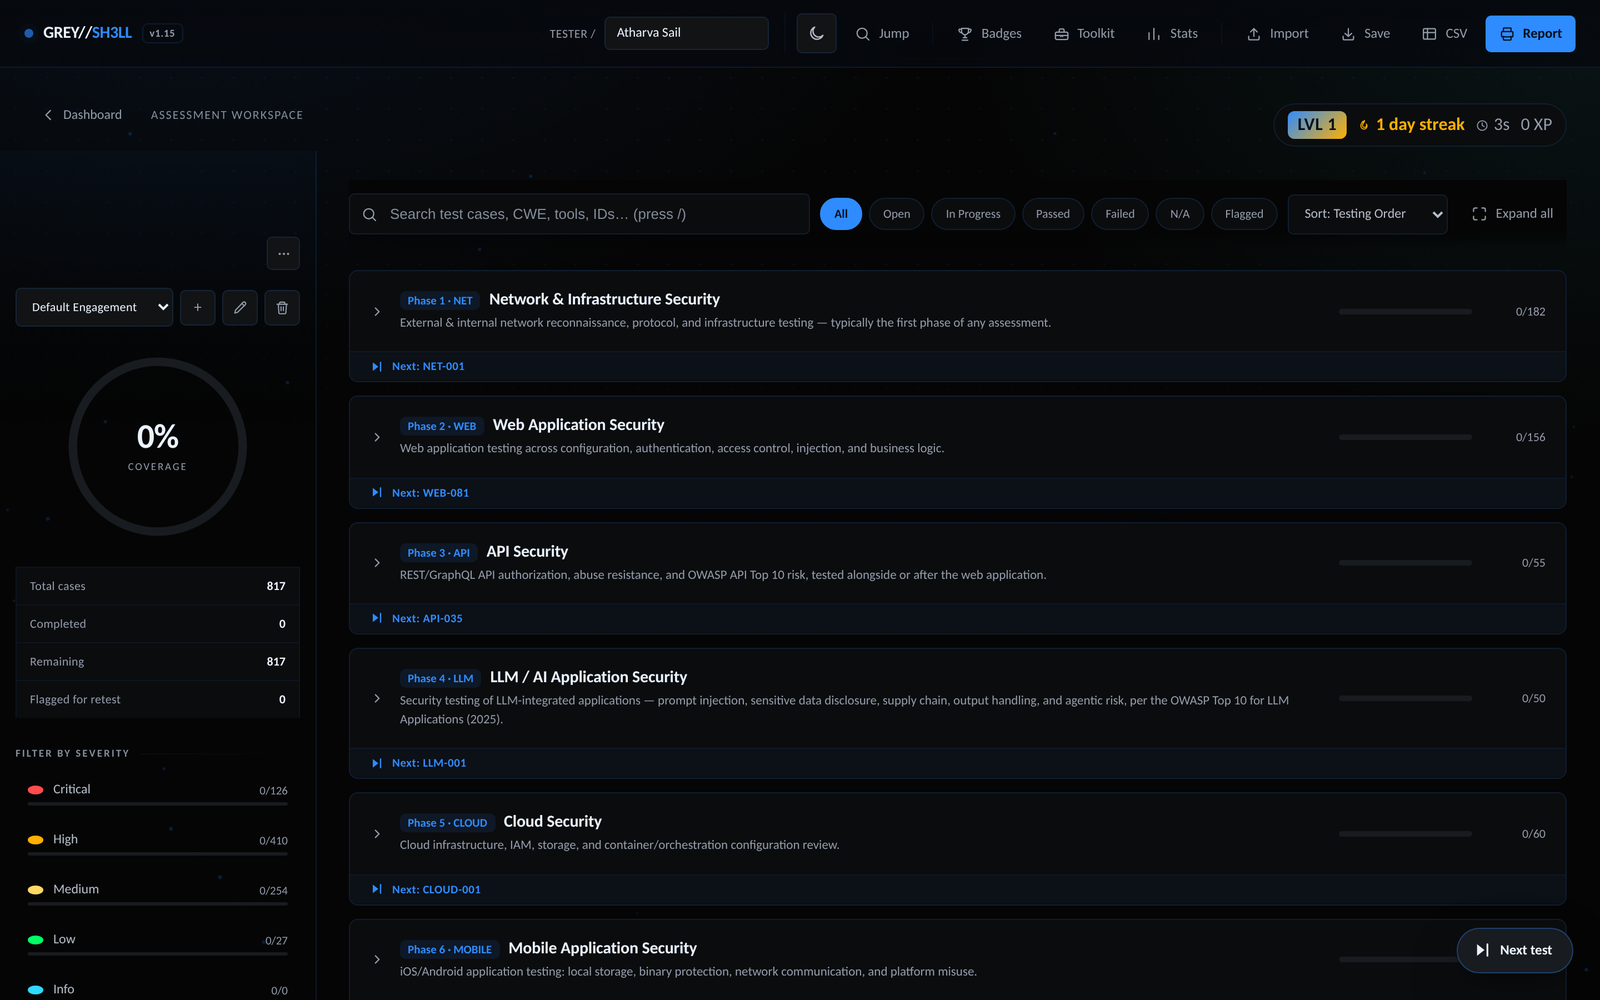
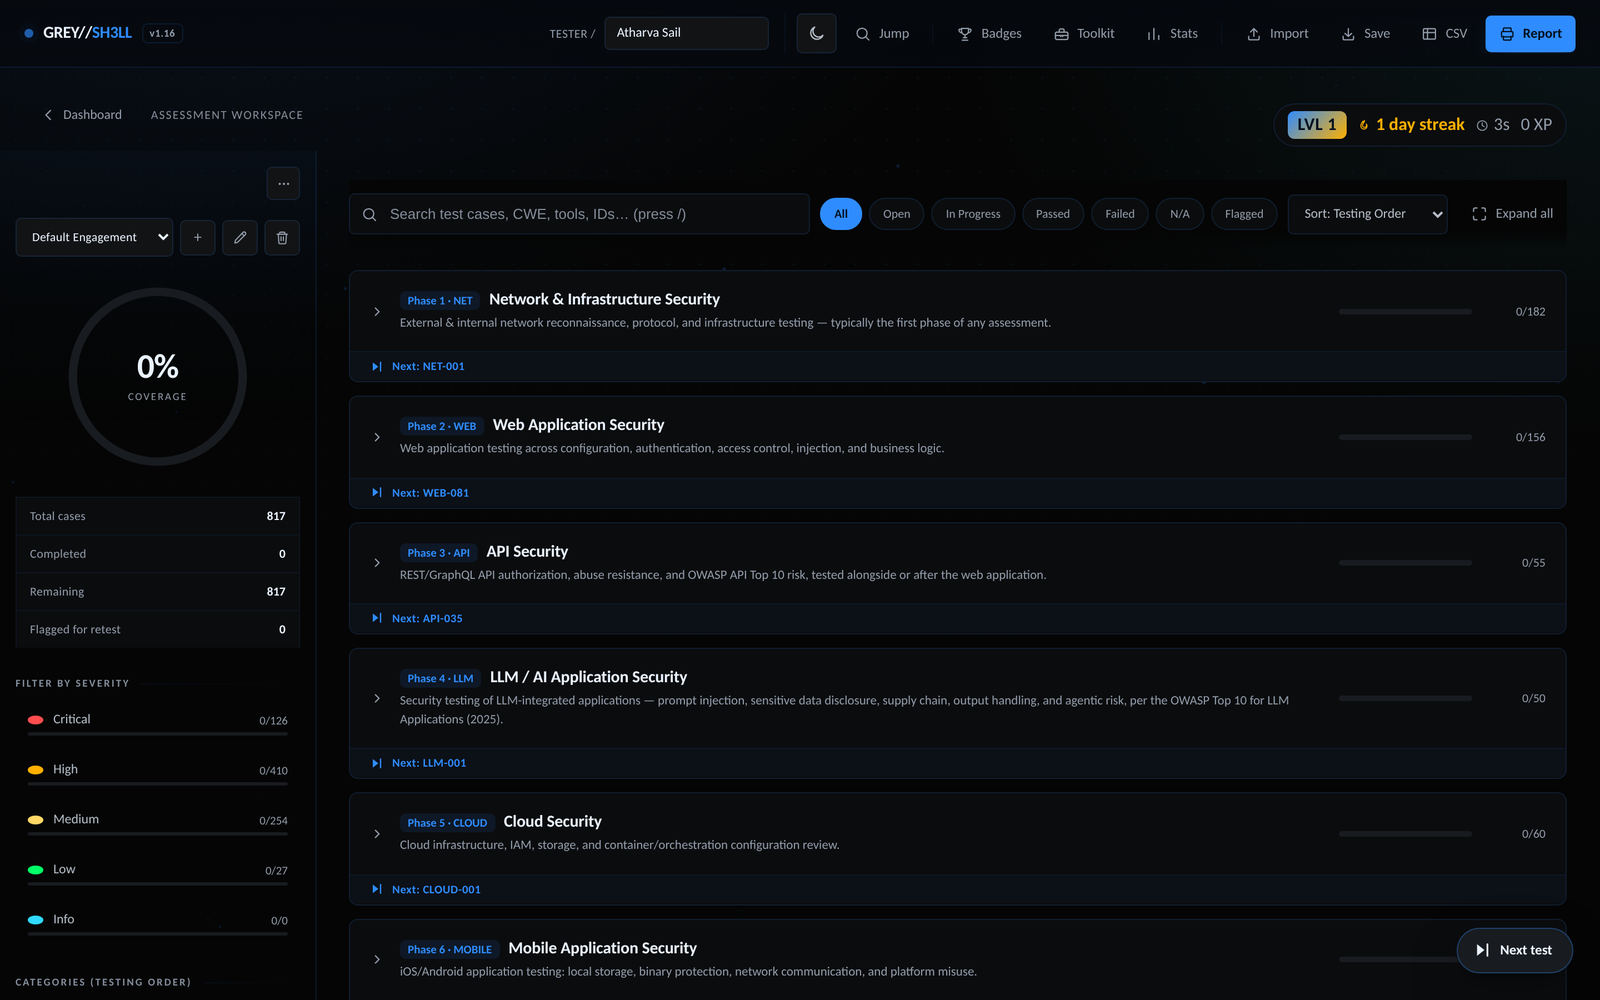
Updated and graph added

diff --git a/css/app-cohesion.css b/css/app-cohesion.css
@@ -174,17 +174,24 @@ body{
     transition:width .22s var(--ease-out);
   }
   .layout.sidebar-rail::before{ width:88px; }
-  /* the sidebar itself no longer draws the border (the column does) and is
-     sticky content only — height auto so it never clips, capped to one
-     viewport so long lists scroll internally */
+  /* Modern app-sidebar behaviour: ONE page scrollbar, no nested scroll region.
+     The sidebar is sticky and sized to its own content (align-self:start), so:
+       • when it's shorter than the viewport it stays pinned as you scroll;
+       • when it's taller, it simply scrolls up with the page (revealing its
+         bottom) instead of trapping a separate inner scrollbar.
+     This is the behaviour the dated max-height + overflow-y:auto was replaced
+     to get. The column ::before still draws the divider the full page height. */
+  .layout{ align-items:start; }
   .sidebar{
     border-right:none;
-    height:auto;
-    max-height:calc(100vh - 63px);
-    position:sticky; top:63px;
+    height:auto; max-height:none; overflow:visible;
+    position:sticky; top:63px; align-self:start;
     z-index:1;
+    padding-bottom:28px;
   }
-  .sidebar, .main{ position:relative; }
+  /* .main needs its own stacking context for z-index layering; the sidebar
+     must stay sticky (do NOT reset it to relative here). */
+  .main{ position:relative; }
 }
 
 /* ---- Mobile / tablet drawer: animate open AND close cleanly ---- */
@@ -206,21 +213,32 @@ body{
     top:56px; height:calc(100dvh - 56px); max-height:calc(100dvh - 56px);
     z-index:61; overflow-y:auto;
     -webkit-overflow-scrolling:touch;
-    padding-top:16px;
+    /* reserve a clear header band at the top of the drawer for the close
+       button; all drawer content (profile bar, ring, filters) starts well below
+       it, so nothing overlaps the close control. */
+    padding-top:68px;
     transition:transform .3s cubic-bezier(.22,1,.36,1);
     will-change:transform;
   }
-  /* close button sits in the drawer's own clear top area (below the topbar),
-     large and comfortably tappable. */
+  /* Close button: a clearly-visible pill pinned to the drawer's top-right,
+     ABOVE the drawer content (higher z-index than the profile bar). The old
+     near-black surface-2 fill on a dark drawer read as an invisible/black box —
+     give it an explicit accent-tinted fill and border so it always reads as a
+     real, tappable button. It stays put while the drawer scrolls. */
   .sidebar-close-btn{
-    top:10px; right:12px; z-index:5;
-    width:40px; height:40px;
+    display:flex; position:absolute; top:12px; right:14px; z-index:10;
+    width:42px; height:42px; border-radius:var(--r-md);
+    background:rgba(var(--accent-rgb),.12);
+    border:1px solid rgba(var(--accent-rgb),.35);
+    color:var(--text-bright);
+    box-shadow:var(--shadow-md);
     transition:background .15s ease, border-color .15s ease, transform .12s ease;
   }
-  .sidebar-close-btn .icn{ width:18px; height:18px; }
-  .sidebar-close-btn:hover{ background:var(--surface-3); border-color:var(--border-strong); }
+  .sidebar-close-btn .icn{ width:20px; height:20px; }
+  .sidebar-close-btn:hover{ background:rgba(var(--accent-rgb),.2); border-color:var(--accent); }
   .sidebar-close-btn:active{ transform:scale(.9); }
-  .sidebar .profile-bar{ margin-top:6px; }
+  /* profile bar now sits comfortably below the header band */
+  .sidebar .profile-bar{ margin-top:0; }
   /* backdrop starts below the topbar too, so tapping the topbar still works */
   .sidebar-backdrop{ top:56px; }
 }
@@ -350,6 +368,10 @@ body{
 .chip:active, .btn:active, .ttab:active{ transform:scale(.96); }
 
 /* the "Report" primary action gets a soft glow so it reads as the key CTA */
+/* The base .btn.primary:hover turned the button bright green (#33FF7A) — an
+   off-brand legacy value that also sticks after a tap on touch devices. Keep
+   every primary button on-brand blue on hover; only the glow grows. */
+.btn.primary:hover{ background:var(--accent); border-color:var(--accent); color:var(--accent-ink); }
 #printBtn.primary{ box-shadow:0 6px 18px -8px rgba(var(--accent-rgb),.5); }
 #printBtn.primary:hover{ box-shadow:0 10px 26px -8px rgba(var(--accent-rgb),.6); }
 
@@ -361,4 +383,58 @@ body{
   .cat-section, .test-item.expanded .detail-inner{ animation:none !important; }
   .chip, .btn, .ttab, .sev-row, .cat-item, .fab{ transition:none !important; }
   .chip:active, .btn:active, .ttab:active, .fab:hover{ transform:none !important; }
+}
+
+/* =========================================================
+   F. TOPBAR OVERFLOW MENU (mobile)
+   Desktop: the "More" button is hidden and every action shows inline.
+   Mobile (<=640px): secondary actions collapse into the More dropdown so
+   nothing scrolls off-screen and every feature stays one tap away.
+========================================================= */
+.topbar-more{ position:relative; display:none; }
+.topbar-more-btn{ display:inline-flex; align-items:center; justify-content:center; }
+.topbar-more-menu{
+  position:absolute; top:calc(100% + 8px); right:0; z-index:70;
+  min-width:210px; padding:6px;
+  background:var(--surface-1); border:1px solid var(--border-strong);
+  border-radius:var(--r-lg); box-shadow:var(--shadow-lg);
+  opacity:0; visibility:hidden; transform:translateY(-6px) scale(.98);
+  transform-origin:top right;
+  transition:opacity .16s var(--ease-out), transform .16s var(--ease-out), visibility .16s;
+}
+.topbar-more.open .topbar-more-menu{ opacity:1; visibility:visible; transform:none; }
+.more-item{
+  display:flex; align-items:center; gap:11px; width:100%;
+  padding:11px 12px; border-radius:var(--r-sm);
+  background:transparent; border:none; color:var(--text); font-size:14px; text-align:left;
+  transition:background .14s ease, color .14s ease;
+}
+.more-item .icn{ width:18px; height:18px; color:var(--text-dim); flex-shrink:0; }
+.more-item:hover, .more-item:focus-visible{ background:var(--surface-2); color:var(--text-bright); }
+.more-item:hover .icn, .more-item:focus-visible .icn{ color:var(--accent); }
+.more-sep{ height:1px; background:var(--border-soft); margin:5px 4px; }
+
+@media (max-width:640px){
+  /* collapse the secondary actions into the More menu */
+  #badgesBtn, #toolkitBtn, #statsBtn, #importBtn, #exportJsonBtn, #exportCsvBtn,
+  .topbar-actions .btn-divider{ display:none !important; }
+  .topbar-more{ display:inline-flex; }
+  /* keep the essential controls comfortably tappable — 44px is the
+     accessibility minimum touch target. */
+  .topbar-actions{ gap:5px; overflow:visible; }
+  .theme-toggle, #paletteBtn, #printBtn, .topbar-more-btn{ min-width:44px; min-height:44px; }
+  .menu-btn{ min-width:44px; min-height:44px; }
+  /* the Search/Jump and Toggle-theme entries in the More menu are only needed
+     at the very smallest widths (below), where those two topbar buttons hide. */
+  .more-item-xs, .more-sep-xs{ display:none; }
+}
+
+/* Very small screens (<=380px): the topbar can't fit four 44px buttons plus the
+   brand, so Search/Jump and the theme toggle move into the More menu (kept
+   reachable), leaving just Report + More in the bar. No control ever shrinks
+   below the 44px touch target, and nothing scrolls off. */
+@media (max-width:380px){
+  #paletteBtn, .theme-toggle{ display:none !important; }
+  .topbar-more-menu .more-item-xs{ display:flex; }
+  .topbar-more-menu .more-sep-xs{ display:block; }
 }

diff --git a/assessment.html b/assessment.html
@@ -73,6 +73,27 @@
     <button class="btn" id="exportJsonBtn" title="Save progress to a file" aria-label="Save progress to a file"><svg class="icn" viewBox="0 0 24 24" fill="none" stroke="currentColor" stroke-width="1.8" stroke-linecap="round" stroke-linejoin="round"><path d="M12 4.5v11"/><path d="M7.2 11.3 12 15.5l4.8-4.2"/><path d="M4.5 15.5v3a2 2 0 0 0 2 2h11a2 2 0 0 0 2-2v-3"/></svg><span class="lbl">Save</span></button>
     <button class="btn" id="exportCsvBtn" title="Export findings as CSV" aria-label="Export findings as CSV"><svg class="icn" viewBox="0 0 24 24" fill="none" stroke="currentColor" stroke-width="1.8" stroke-linecap="round" stroke-linejoin="round"><rect x="3.3" y="4.5" width="17.4" height="15" rx="1.8"/><line x1="3.3" y1="10" x2="20.7" y2="10"/><line x1="9.2" y1="4.5" x2="9.2" y2="19.5"/></svg><span class="lbl">CSV</span></button>
     <button class="btn primary" id="printBtn" title="Print / save as PDF report" aria-label="Print or save report as PDF"><svg class="icn" viewBox="0 0 24 24" fill="none" stroke="currentColor" stroke-width="1.8" stroke-linecap="round" stroke-linejoin="round"><path d="M6.5 8.7V4.2a.8.8 0 0 1 .8-.8h9.4a.8.8 0 0 1 .8.8v4.5"/><rect x="3.8" y="8.7" width="16.4" height="7.6" rx="1.4"/><path d="M6.5 15.5v4.5a.8.8 0 0 0 .8.8h9.4a.8.8 0 0 0 .8-.8v-4.5"/></svg><span class="lbl">Report</span></button>
+    <!-- Overflow menu — shown only on narrow screens where the full action row
+         would scroll off. Its "More" button reveals the secondary actions
+         (Badges/Toolkit/Stats/Import/Save/CSV) that are hidden on mobile, so
+         nothing important is off-screen. Wired in js/interactions.js. -->
+    <div class="topbar-more" id="topbarMore">
+      <button class="btn topbar-more-btn" id="topbarMoreBtn" aria-label="More actions" aria-haspopup="true" aria-expanded="false" title="More">
+        <svg class="icn" viewBox="0 0 24 24" fill="currentColor" stroke="none"><circle cx="5" cy="12" r="1.9"/><circle cx="12" cy="12" r="1.9"/><circle cx="19" cy="12" r="1.9"/></svg>
+      </button>
+      <div class="topbar-more-menu" id="topbarMoreMenu" role="menu" aria-label="More actions">
+        <button class="more-item more-item-xs" data-more="jump" role="menuitem"><svg class="icn" viewBox="0 0 24 24" fill="none" stroke="currentColor" stroke-width="1.8" stroke-linecap="round" stroke-linejoin="round"><circle cx="11" cy="11" r="7.2"/><line x1="20.8" y1="20.8" x2="16.4" y2="16.4"/></svg><span>Search / Jump</span></button>
+        <button class="more-item more-item-xs" data-more="theme" role="menuitem"><svg class="icn" viewBox="0 0 24 24" fill="none" stroke="currentColor" stroke-width="1.8" stroke-linecap="round" stroke-linejoin="round"><path d="M20.4 14.7A8.5 8.5 0 1 1 9.3 3.6a7 7 0 0 0 11.1 11.1z"/></svg><span>Toggle theme</span></button>
+        <div class="more-sep more-sep-xs"></div>
+        <button class="more-item" data-more="badges" role="menuitem"><svg class="icn" viewBox="0 0 24 24" fill="none" stroke="currentColor" stroke-width="1.8" stroke-linecap="round" stroke-linejoin="round"><path d="M7 4h10v4.2a5 5 0 0 1-10 0V4z"/><path d="M7 5.2H4.3a1 1 0 0 0-1 1.1c.2 2.4 1.7 3.9 4.1 4.2M17 5.2h2.7a1 1 0 0 1 1 1.1c-.2 2.4-1.7 3.9-4.1 4.2"/><line x1="12" y1="13.2" x2="12" y2="17.5"/><line x1="8" y1="21" x2="16" y2="21"/><line x1="9.5" y1="17.5" x2="14.5" y2="17.5"/></svg><span>Badges &amp; XP</span></button>
+        <button class="more-item" data-more="toolkit" role="menuitem"><svg class="icn" viewBox="0 0 24 24" fill="none" stroke="currentColor" stroke-width="1.8" stroke-linecap="round" stroke-linejoin="round"><rect x="3" y="9.5" width="18" height="10.5" rx="2"/><path d="M8.5 9.5V6.8a2 2 0 0 1 2-2h3a2 2 0 0 1 2 2v2.7"/><line x1="3" y1="14.2" x2="21" y2="14.2"/></svg><span>Analyst Toolkit</span></button>
+        <button class="more-item" data-more="stats" role="menuitem"><svg class="icn" viewBox="0 0 24 24" fill="none" stroke="currentColor" stroke-width="1.8" stroke-linecap="round" stroke-linejoin="round"><line x1="5" y1="20" x2="5" y2="10.5"/><line x1="12" y1="20" x2="12" y2="4"/><line x1="19" y1="20" x2="19" y2="14.5"/></svg><span>Stats dashboard</span></button>
+        <div class="more-sep"></div>
+        <button class="more-item" data-more="import" role="menuitem"><svg class="icn" viewBox="0 0 24 24" fill="none" stroke="currentColor" stroke-width="1.8" stroke-linecap="round" stroke-linejoin="round"><path d="M12 15.5V4.5"/><path d="M7.2 9.2 12 4.5l4.8 4.7"/><path d="M4.5 15.5v3a2 2 0 0 0 2 2h11a2 2 0 0 0 2-2v-3"/></svg><span>Import progress</span></button>
+        <button class="more-item" data-more="save" role="menuitem"><svg class="icn" viewBox="0 0 24 24" fill="none" stroke="currentColor" stroke-width="1.8" stroke-linecap="round" stroke-linejoin="round"><path d="M12 4.5v11"/><path d="M7.2 11.3 12 15.5l4.8-4.2"/><path d="M4.5 15.5v3a2 2 0 0 0 2 2h11a2 2 0 0 0 2-2v-3"/></svg><span>Save progress</span></button>
+        <button class="more-item" data-more="csv" role="menuitem"><svg class="icn" viewBox="0 0 24 24" fill="none" stroke="currentColor" stroke-width="1.8" stroke-linecap="round" stroke-linejoin="round"><rect x="3.3" y="4.5" width="17.4" height="15" rx="1.8"/><line x1="3.3" y1="10" x2="20.7" y2="10"/><line x1="9.2" y1="4.5" x2="9.2" y2="19.5"/></svg><span>Export CSV</span></button>
+      </div>
+    </div>
   </div>
 </header>
 

diff --git a/js/interactions.js b/js/interactions.js
@@ -760,6 +760,48 @@ window.addEventListener('resize', ()=>{
 document.getElementById('testerName').addEventListener('input', ()=> saveProgress());
 
 /* =========================================================
+   TOPBAR OVERFLOW MENU (mobile)
+   On narrow screens the full action row would scroll off, hiding
+   Badges/Toolkit/Stats/Import/Save/CSV. The "More" (⋯) button reveals
+   them in a dropdown; each item simply forwards to the real action
+   button so there is one source of truth for behaviour.
+========================================================= */
+(function initTopbarMore(){
+  const wrap = document.getElementById('topbarMore');
+  const btn  = document.getElementById('topbarMoreBtn');
+  const menu = document.getElementById('topbarMoreMenu');
+  if(!wrap || !btn || !menu) return;
+
+  // each menu item maps to the id of the real topbar button it triggers
+  const MAP = {
+    jump:    'paletteBtn',
+    theme:   'themeToggle',
+    badges:  'badgesBtn',
+    toolkit: 'toolkitBtn',
+    stats:   'statsBtn',
+    import:  'importBtn',
+    save:    'exportJsonBtn',
+    csv:     'exportCsvBtn',
+  };
+
+  function open(){ wrap.classList.add('open'); btn.setAttribute('aria-expanded','true'); }
+  function close(){ wrap.classList.remove('open'); btn.setAttribute('aria-expanded','false'); }
+  function toggle(){ wrap.classList.contains('open') ? close() : open(); }
+
+  btn.addEventListener('click', (e)=>{ e.stopPropagation(); toggle(); });
+  menu.addEventListener('click', (e)=>{
+    const item = e.target.closest('.more-item');
+    if(!item) return;
+    const target = document.getElementById(MAP[item.dataset.more]);
+    close();
+    if(target) target.click();
+  });
+  // dismiss on outside click or Escape
+  document.addEventListener('click', (e)=>{ if(!wrap.contains(e.target)) close(); });
+  document.addEventListener('keydown', (e)=>{ if(e.key === 'Escape') close(); });
+})();
+
+/* =========================================================
    SIDEBAR RAIL COLLAPSE (desktop) — the "three dots" collapsed view
 ========================================================= */
 const SIDEBAR_RAIL_KEY = 'vapt_console_sidebar_rail';

diff --git a/js/home.js b/js/home.js
@@ -357,21 +357,27 @@ function renderSeverityChart(){
   const total = slices.reduce((sum, s) => sum + s.n, 0);
   if(!total){ host.innerHTML = '<p class="chart-empty">No cases loaded.</p>'; return; }
 
-  /* r=42 gives a circumference of ~263.9. Each slice is drawn as a dashed
-     stroke on the same circle and rotated into place, which avoids the arc
-     path arithmetic entirely and degrades gracefully at any size. */
+  /* r=42 gives a circumference of ~263.9. Each slice is a dashed stroke on the
+     same circle, rotated into place — no arc-path maths, scales cleanly.
+     A small consistent GAP is inserted between segments (modern segmented-donut
+     style): it makes the boundaries crisp even when two severities share a
+     similar hue (High #FFB000 vs Medium #FFD866), which previously blended into
+     one lopsided blob. The gap is taken off the end of each visible segment so
+     the geometry still sums to the full circle. */
   const R = 42;
   const CIRC = 2 * Math.PI * R;
+  const GAP = slices.length > 1 ? 3 : 0;   // px of blank between segments
   let offset = 0;
   const arcs = slices.map(s => {
-    const len = (s.n / total) * CIRC;
+    const full = (s.n / total) * CIRC;      // this slice's full share
+    const seg = Math.max(full - GAP, 0.5);  // visible dash, minus the trailing gap
     const arc = `<circle class="chart-arc" data-sev="${s.key}"
-        cx="60" cy="60" r="${R}" fill="none" stroke-width="15"
-        stroke-dasharray="${len.toFixed(2)} ${(CIRC - len).toFixed(2)}"
+        cx="60" cy="60" r="${R}" fill="none" stroke-width="15" stroke-linecap="round"
+        stroke-dasharray="${seg.toFixed(2)} ${(CIRC - seg).toFixed(2)}"
         stroke-dashoffset="${(-offset).toFixed(2)}"
         transform="rotate(-90 60 60)"
       ><title>${escapeHtml(s.label)}: ${s.n} (${Math.round(pctOf(s.n, total))}%)</title></circle>`;
-    offset += len;
+    offset += full;                         // advance by the full share (keeps the ring closed)
     return arc;
   }).join('');
 

diff --git a/css/landing-premium.css b/css/landing-premium.css
@@ -227,8 +227,14 @@ body{ letter-spacing:.1px; }
   background:var(--l-grad-accent); border-color:transparent; color:#04101F;
   box-shadow:0 14px 34px -12px var(--l-glow-blue);
 }
-.l-btn-primary:hover{ box-shadow:0 20px 50px -12px var(--l-glow-blue); }
-.l-btn:hover{ border-color:var(--l-line-strong); background:rgba(var(--l-blue-rgb),.08); }
+/* Primary keeps its gradient on hover (only the glow grows). Explicitly
+   re-declaring the gradient here stops the secondary hover rule below from
+   overriding it — on touch devices :hover sticks after a tap, which was
+   turning the primary CTA into a near-transparent (black-looking) button. */
+.l-btn-primary:hover{ background:var(--l-grad-accent); box-shadow:0 20px 50px -12px var(--l-glow-blue); }
+/* Secondary (outline) buttons only — :not(.l-btn-primary) so the primary is
+   never touched by this translucent hover fill. */
+.l-btn:not(.l-btn-primary):hover{ border-color:var(--l-line-strong); background:rgba(var(--l-blue-rgb),.08); }
 .l-btn:hover .icn{ transform:translateX(4px); }
 .l-btn-primary:hover .icn{ transform:translateX(4px); }
 

diff --git a/README.md b/README.md
@@ -11,8 +11,8 @@ client-ready PDF report — entirely in the browser. **No backend. No build. No 
 
 [![Live Demo](https://img.shields.io/badge/%F0%9F%94%97_Live_Demo-atharvasail.github.io%2FGreySh3ll-2f8cff?style=for-the-badge)](https://atharvasail.github.io/GreySh3ll/)
 
-[![Deploy](https://img.shields.io/github/actions/workflow/status/ATHARVASAIL/GreySh3ll/deploy.yml?branch=main&label=deploy&logo=githubactions&logoColor=white&style=flat-square)](../../actions)
-[![Verify](https://img.shields.io/github/actions/workflow/status/ATHARVASAIL/GreySh3ll/verify.yml?branch=main&label=tests&logo=jest&logoColor=white&style=flat-square)](../../actions)
+[![Deploy](https://img.shields.io/github/actions/workflow/status/ATHARVASAIL/GreySh3ll/deploy.yml?branch=main&label=deploy&logo=githubactions&logoColor=white&style=flat-square)](../../actions/workflows/deploy.yml)
+[![CI](https://img.shields.io/github/actions/workflow/status/ATHARVASAIL/GreySh3ll/ci.yml?branch=main&label=tests&logo=jest&logoColor=white&style=flat-square)](../../actions/workflows/ci.yml)
 [![License: MIT](https://img.shields.io/badge/license-MIT-2f8cff.svg?style=flat-square)](LICENSE)
 [![Version](https://img.shields.io/badge/version-1.16-blueviolet?style=flat-square)](#-changelog)
 [![Backend](https://img.shields.io/badge/backend-none-informational?style=flat-square)](#)
@@ -147,7 +147,7 @@ tests/              →  152 unit tests + 18-viewport sweep + contrast & data ga
 
 ## ✅ Tests & quality gates
 
-All gates run in CI on every push (`.github/workflows/verify.yml`).
+All gates run in CI on every push (`.github/workflows/ci.yml`).
 
 ```bash
 cd tests
